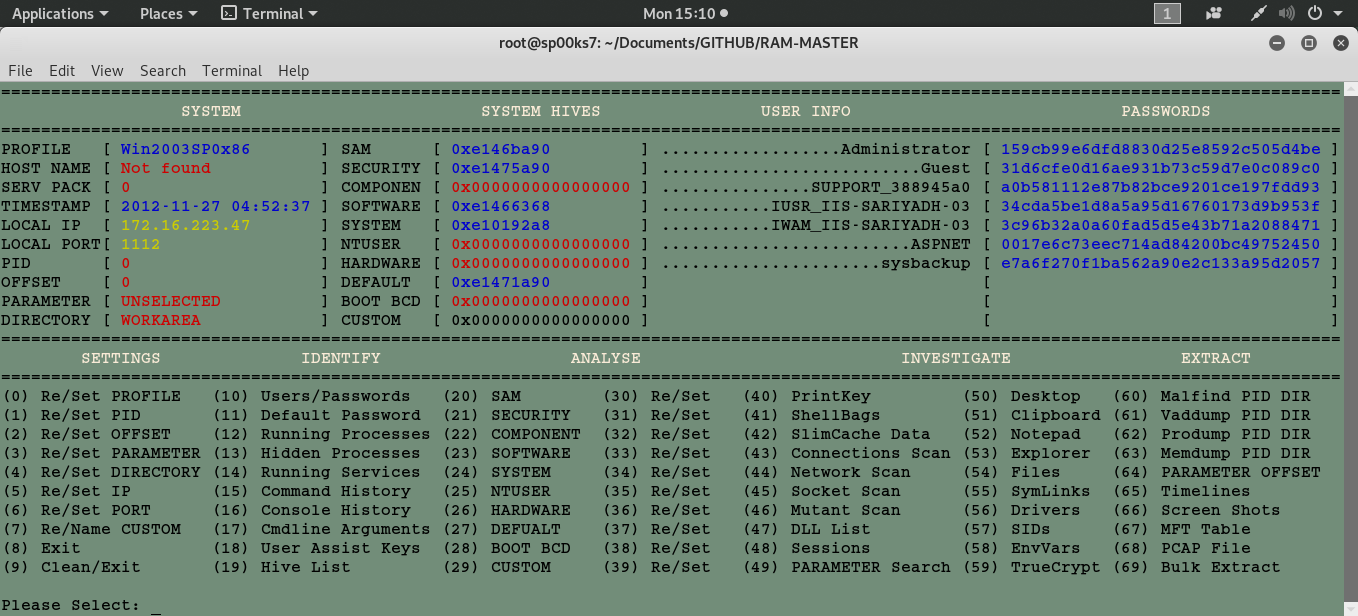
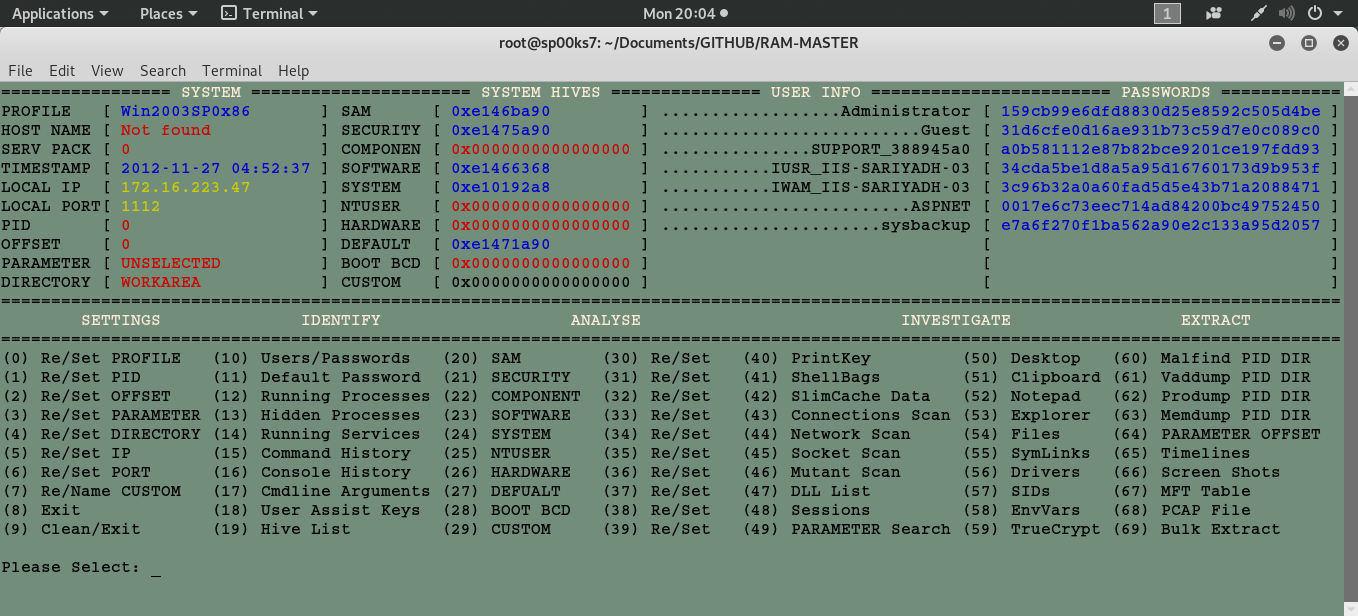
changes

diff --git a/RamMaster.py b/RamMaster.py
@@ -144,8 +144,10 @@ if not os.path.exists('WORKAREA'):
 # Grab image information.
 # -------------------------------------------------------------------------------------
 
-os.system("volatility imageinfo -f '" + fileName + "' > image.txt")
-with open("image.txt") as search:
+profiles = "NOT FOUND"
+
+os.system("volatility imageinfo -f '" + fileName + "' > image.log")
+with open("image.log") as search:
    for line in search:
       if "Suggested Profile(s) :" in line:
          profiles = line
@@ -157,10 +159,13 @@ with open("image.txt") as search:
          DA1 = line
       if "Image local date and time :" in line:
          DA2 = line
-os.remove("image.txt")
+
+if profiles == "NOT FOUND":
+   print "ERROR #001 - A windows profile was not found, see 'image.log' for further information."
+   exit(True)
 
 #-------------------------------------------------------------------------------------
-# Find appropriate profile.
+# Now search for appropriate profile.
 #-------------------------------------------------------------------------------------
 
 profiles = profiles.replace("Suggested Profile(s) :","")
@@ -170,8 +175,9 @@ PRO = " --profile " + profiles[0]
 PR2 = profiles[0]
 if (PR2[:1] == "W") or (PR2[:1] == "V"):
    PR2 = padding(PR2,COL1)
+   os.remove("image.log")
 else:
-   print "ERROR - Windows profile not found..."
+   print "ERROR #002- A windows profile was not found, see 'image.log' for further information."
    exit(True)
 
 #-------------------------------------------------------------------------------------
@@ -302,17 +308,15 @@ os.remove('conn1.txt')
 def Display():
 # -------------------------------------------------------------------------------------
 
-   print "="*134
-   print " "*17,
+   print "="*17,
    print colored("SYSTEM",'white'),
-   print " "*22	,
+   print "="*22	,
    print colored("SYSTEM HIVES",'white'),
-   print " "*14,
+   print "="*15,
    print colored("USER INFO",'white'),
-   print " "*25,
+   print "="*24,
    print colored("PASSWORDS",'white'),
-   print " "*11
-   print "="*134	
+   print "="*12
 
 # -------------------------------------------------------------------------------------
 

diff --git a/README.md b/README.md
@@ -5,8 +5,8 @@ Usage: python RamMaster dumpfile.mem
 
 | LANGUAGE  | FILENAME         | MD5 Hash                         |
 |------     |------            | -------                          |
-| python    | RamMaster.py     | 0c5bc1d3b34f2020ca4d016a2a6e602a |
-| text file | profiles.txt     | 90a98544725dc945df30c20fabeb3e80 |
+| python    | RamMaster.py     | 852fddd460f29db1c18ca9b301b46509 |
+| text file | profiles.txt     | ba638a0a6f9d322100809bd6e67427d6 |
 | bash file | patch.sh         | 7a4231731982e09d9a703f7357170755 |
 
 - [x] Requires volatility (https://github.com/volatilityfoundation/volatility) to be installed.
